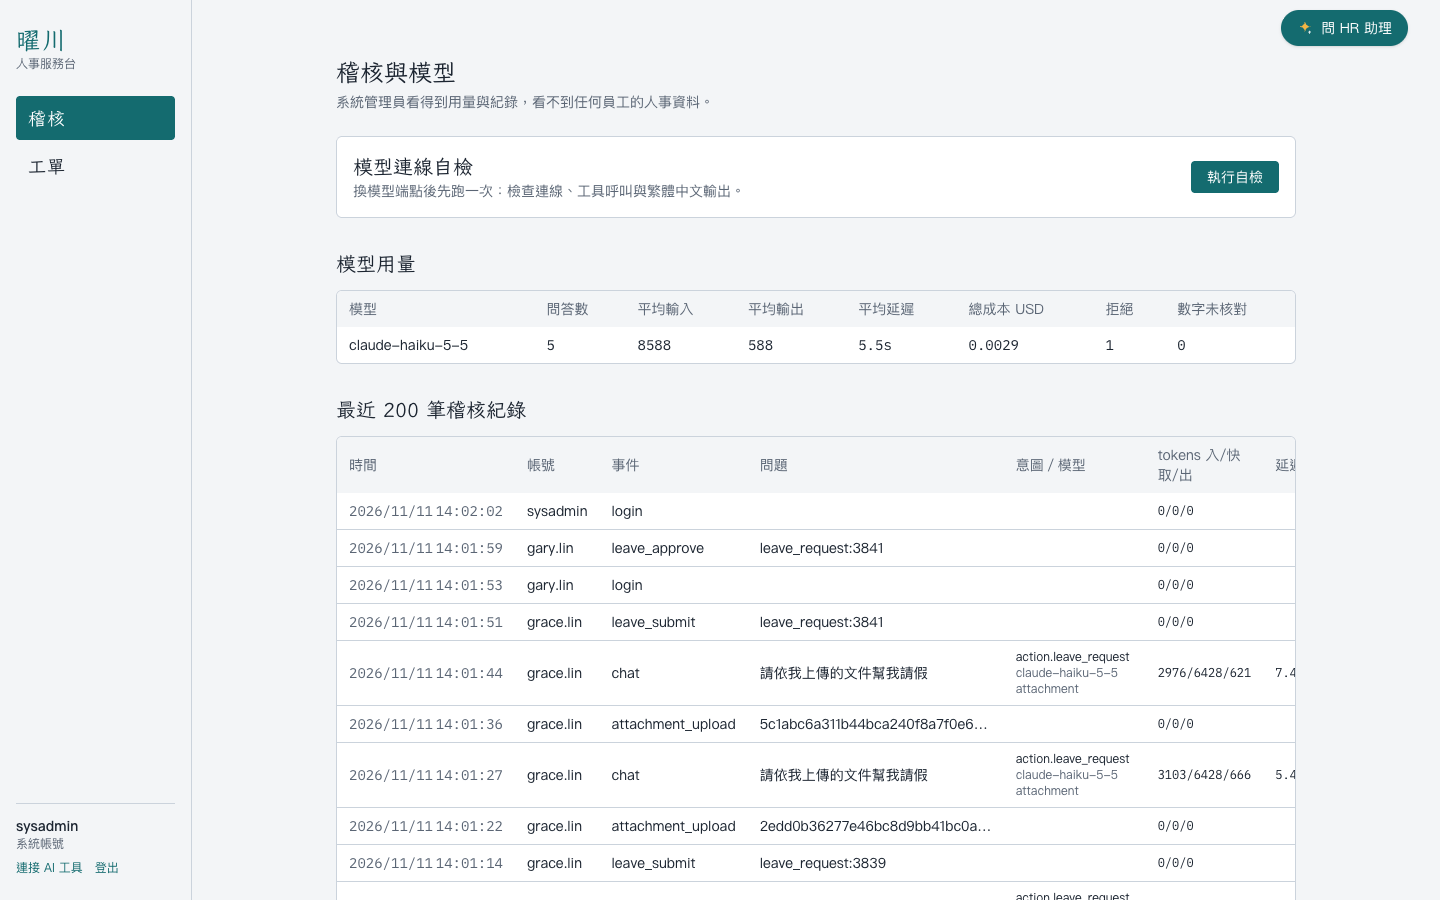
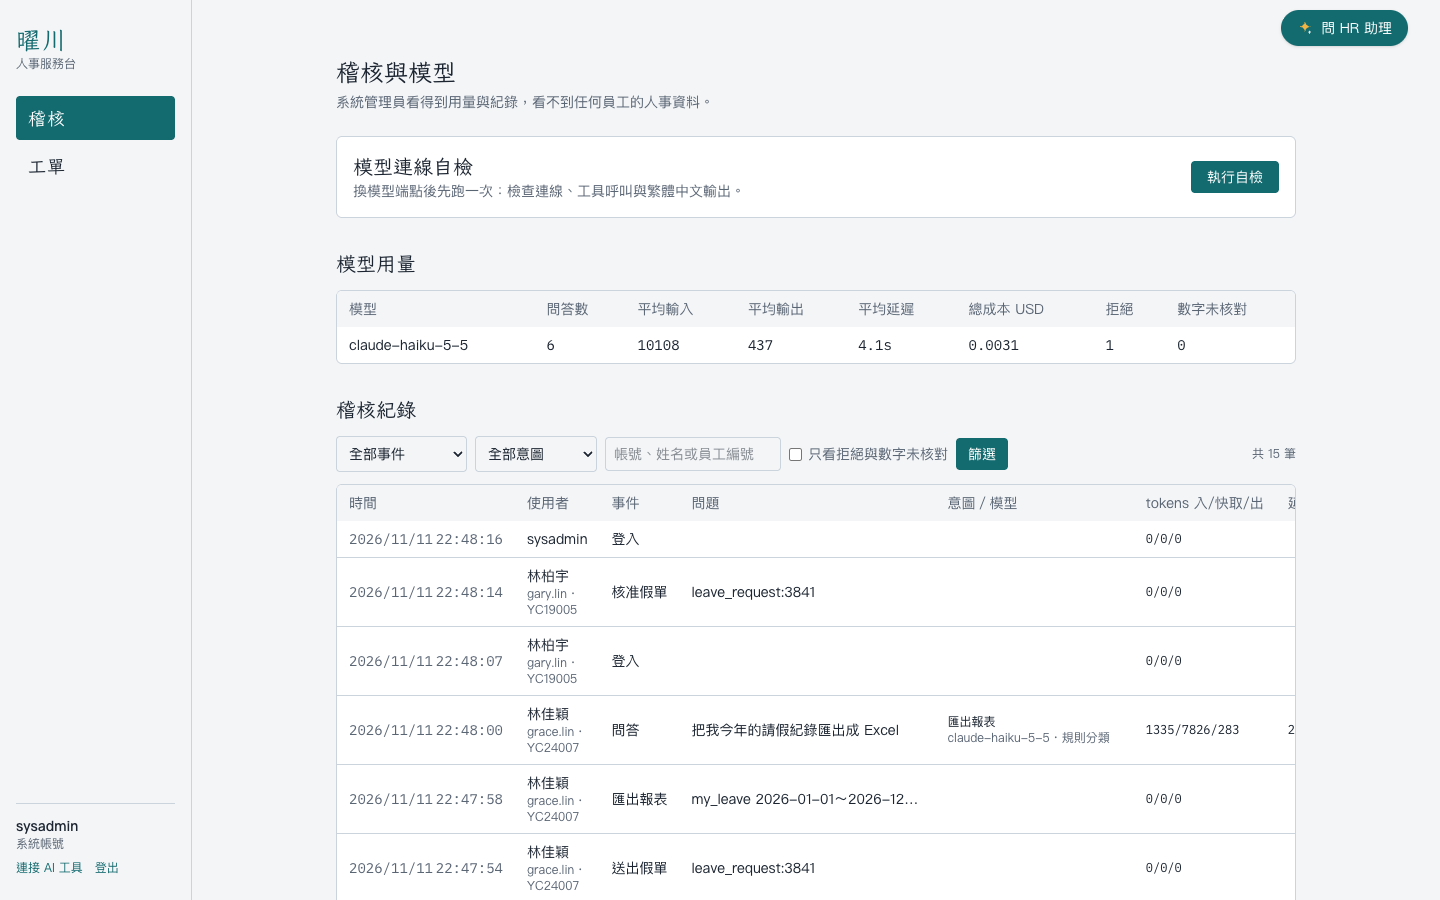
Refresh README screenshots; add export and auditor assistant shots

diff --git a/README.md b/README.md
@@ -167,6 +167,8 @@ cd ../web && npm ci && npm run dev             # http://localhost:3000
 | ![主管簽核](docs/images/approvals.png) | ![假勤帳本](docs/images/leave-ledger.png) |
 | **稽核與模型自檢** | **手機：薪資單** |
 | ![稽核](docs/images/admin.png) | ![手機薪資單](docs/images/mobile-payslip.png) |
+| **浮動聊天室：匯出 Excel** | **稽核助理（只有統計工具）** |
+| ![浮動聊天室中把請假紀錄匯出成 Excel](docs/images/export-floating.png) | ![系統管理員詢問本月拒絕統計](docs/images/auditor-assistant.png) |
 
 ## 說明
 
